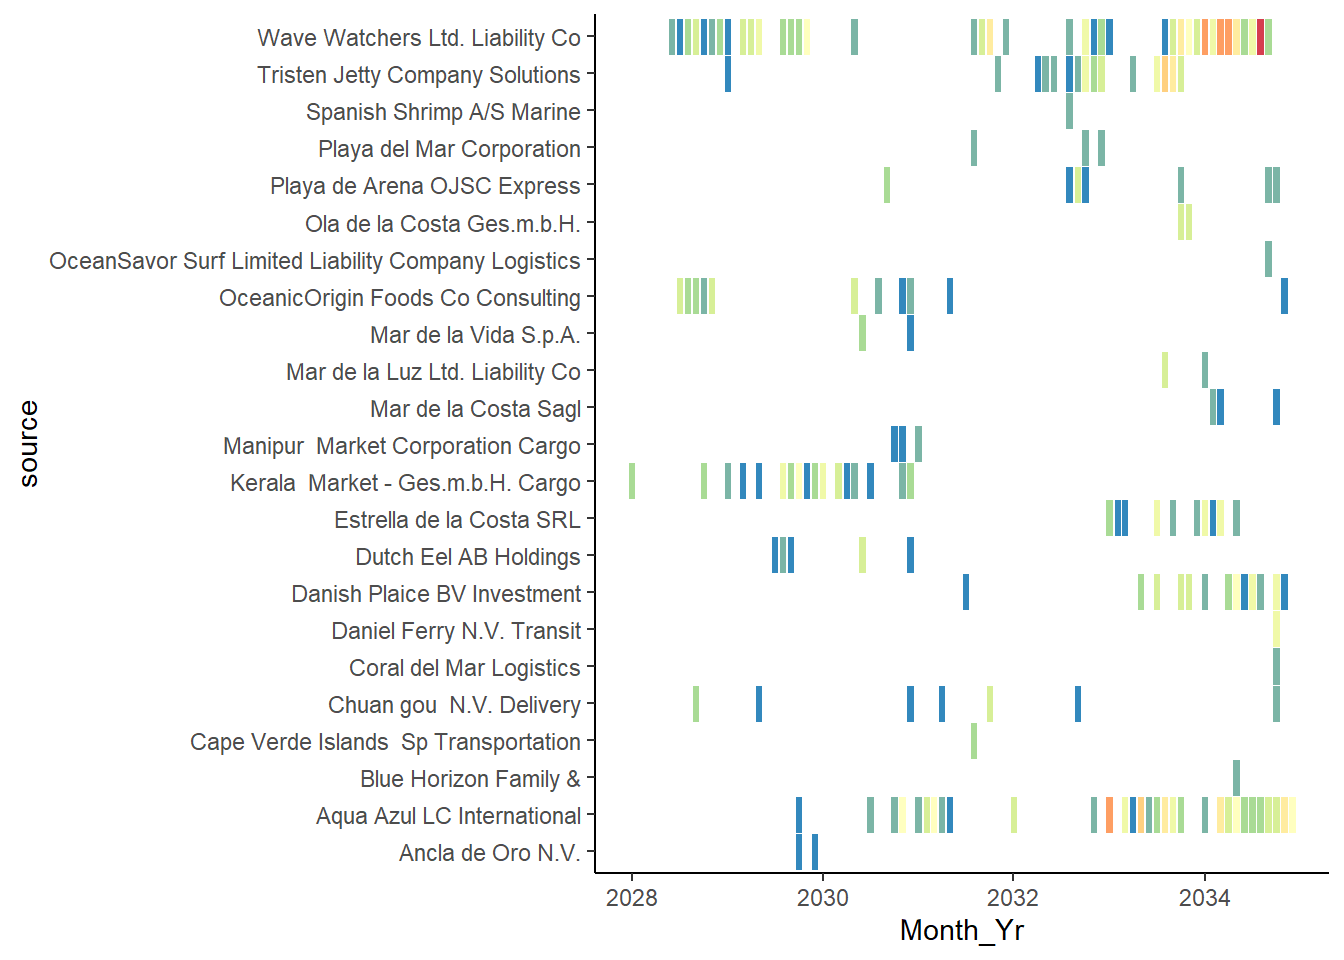
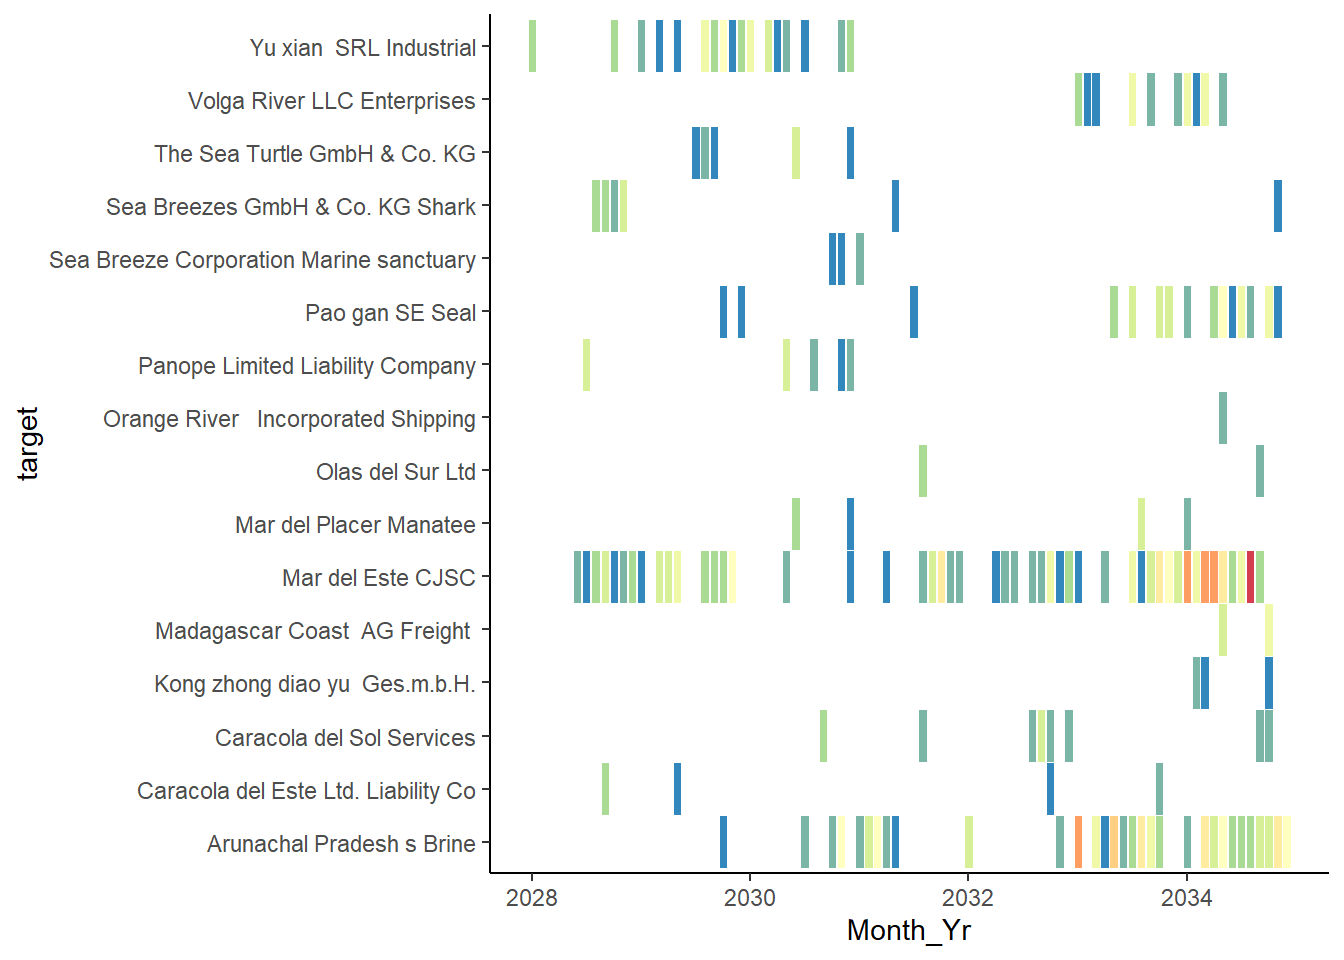
final commit 4 June

diff --git a/_site/Take-home_Ex/Take-home_Ex02/Take-home_Ex02.html b/_site/Take-home_Ex/Take-home_Ex02/Take-home_Ex02.html
@@ -261,7 +261,12 @@ code span.wa { color: #60a0b0; font-weight: bold; font-style: italic; } /* Warni
   <li><a href="#load-packages" id="toc-load-packages" class="nav-link" data-scroll-target="#load-packages">Load Packages</a></li>
   <li><a href="#data-importing-and-wraggling" id="toc-data-importing-and-wraggling" class="nav-link" data-scroll-target="#data-importing-and-wraggling">Data Importing and wraggling</a></li>
   </ul></li>
-  <li><a href="#data-visualization" id="toc-data-visualization" class="nav-link" data-scroll-target="#data-visualization">Data Visualization</a></li>
+  <li><a href="#data-visualization" id="toc-data-visualization" class="nav-link" data-scroll-target="#data-visualization">Data Visualization</a>
+  <ul class="collapse">
+  <li><a href="#plot-network-graph" id="toc-plot-network-graph" class="nav-link" data-scroll-target="#plot-network-graph">Plot Network Graph</a></li>
+  <li><a href="#plot-temporal-graph" id="toc-plot-temporal-graph" class="nav-link" data-scroll-target="#plot-temporal-graph">Plot Temporal Graph</a></li>
+  <li><a href="#insights" id="toc-insights" class="nav-link" data-scroll-target="#insights">Insights</a></li>
+  </ul></li>
   <li><a href="#interactive-network-graph" id="toc-interactive-network-graph" class="nav-link" data-scroll-target="#interactive-network-graph">Interactive Network Graph</a></li>
   </ul>
 </nav>
@@ -309,7 +314,8 @@ code span.wa { color: #60a0b0; font-weight: bold; font-style: italic; } /* Warni
 <h1>Task</h1>
 <p>Using the data provide by the VAST challenge, we are looking into the <a href="https://vast-challenge.github.io/2023/MC2.html">Mini-Challenge 2</a> (MC2) to identify compaines possibly engaged in illegal, unreported, and unregulated (IUU) fishing.</p>
 <p>When looking into IUU, we need to understand transshipment plays crucial roles in facilitating IUU fishing. Fishing ships will transfer its catch to other ships which would launder the catch to other countries - presumably their won. According to <a href="https://www.oceansinc.earth/transshipment#:~:text=Transshipment%20can%20facilitate%20IUU%20fishing,fish%20to%20be%20%E2%80%9Claundered%E2%80%9D.">OCEANS</a>, as many as 20% of global fishing catch is from IUU sources.</p>
-<p>Below, we will use Social Network Analysis (SNA) to understand to observe if we could uncover suspicious IUU activities.</p>
+<p>In the MC2 also mentioned that, when comapnies caught fishing illegally will shut down but will then often start up again under a different name, below we will visualize temporal patterns to identify if there are companies like this.</p>
+<p>Below, we will use Social Network Analysis (SNA) and other relevant tools to understand to observe if we could uncover suspicious IUU activities.</p>
 </section>
 <section id="data-preparation" class="level1">
 <h1>Data Preparation</h1>
@@ -323,7 +329,6 @@ code span.wa { color: #60a0b0; font-weight: bold; font-style: italic; } /* Warni
 <li><p><code>jsonlite</code>: Used for loading json data file.</p></li>
 <li><p><code>tidygraph</code>: Used for visualising network graph.</p></li>
 <li><p><code>visNetwork</code>: Used for visualising interactive network graph.</p></li>
-<li><p><code>pacthwork</code>: Used to combine plots.</p></li>
 <li><p><code>ggrepel</code>: ggrepel provides geoms for&nbsp;<code>ggplot2</code>&nbsp;to repel overlapping text labels.</p></li>
 <li><p><code>ggraph</code>: extension of <code>ggplot2</code></p></li>
 <li><p><code>igraph</code>: Network Analysis and Visualization.</p></li>
@@ -331,7 +336,7 @@ code span.wa { color: #60a0b0; font-weight: bold; font-style: italic; } /* Warni
 <div class="cell">
 <details>
 <summary>Show the code</summary>
-<div class="sourceCode cell-code" id="cb1"><pre class="sourceCode r code-with-copy"><code class="sourceCode r"><span id="cb1-1"><a href="#cb1-1" aria-hidden="true" tabindex="-1"></a>pacman<span class="sc">::</span><span class="fu">p_load</span>(jsonlite, tidygraph, ggraph, visNetwork, tidyverse, lubridate, ggplot2, ggthemes, igraph, patchwork, ggrepel)</span></code><button title="Copy to Clipboard" class="code-copy-button"><i class="bi"></i></button></pre></div>
+<div class="sourceCode cell-code" id="cb1"><pre class="sourceCode r code-with-copy"><code class="sourceCode r"><span id="cb1-1"><a href="#cb1-1" aria-hidden="true" tabindex="-1"></a>pacman<span class="sc">::</span><span class="fu">p_load</span>(jsonlite, tidygraph, ggraph, visNetwork, tidyverse, lubridate, ggplot2, ggthemes, igraph, ggrepel)</span></code><button title="Copy to Clipboard" class="code-copy-button"><i class="bi"></i></button></pre></div>
 </details>
 </div>
 </section>
@@ -497,7 +502,10 @@ $ weights  &lt;int&gt; 11, 11, 14, 12, 12, 15, 12, 15, 11, 13, 11, 14, 11, 11, 1
 <span id="cb16-3"><a href="#cb16-3" aria-hidden="true" tabindex="-1"></a>                       <span class="at">directed =</span> <span class="cn">TRUE</span>)</span></code><button title="Copy to Clipboard" class="code-copy-button"><i class="bi"></i></button></pre></div>
 </details>
 </div>
-<p>Many</p>
+<p>For the graphs below, the nodes are the fishing companies and the edges (links) are amount of times they are interacting with other nodes.</p>
+<p>As mentioned in the introduction, transshipment could be a way for ships to launder the IUU fishes, we plot the below graph, by filtering the nodes that has high in-degree. Nodes with high in-degree here means, it received a lot of shirmps/catfish/tuna from other ships.</p>
+<section id="plot-network-graph" class="level2">
+<h2 class="anchored" data-anchor-id="plot-network-graph">Plot Network Graph</h2>
 <div class="cell">
 <details>
 <summary>Show the code</summary>
@@ -518,6 +526,7 @@ $ weights  &lt;int&gt; 11, 11, 14, 12, 12, 15, 12, 15, 11, 13, 11, 14, 11, 11, 1
 <p><img src="Take-home_Ex02_files/figure-html/unnamed-chunk-9-1.png" class="img-fluid" width="672"></p>
 </div>
 </div>
+<p>We are also interested to know the high out-degree nodes, and later in the interactive nodes, we can example if any of these high out-degree nodes actually supplies to the above high in-dgree nodes.</p>
 <div class="cell">
 <details>
 <summary>Show the code</summary>
@@ -538,6 +547,10 @@ $ weights  &lt;int&gt; 11, 11, 14, 12, 12, 15, 12, 15, 11, 13, 11, 14, 11, 11, 1
 <p><img src="Take-home_Ex02_files/figure-html/unnamed-chunk-10-1.png" class="img-fluid" width="672"></p>
 </div>
 </div>
+</section>
+<section id="plot-temporal-graph" class="level2">
+<h2 class="anchored" data-anchor-id="plot-temporal-graph">Plot Temporal Graph</h2>
+<p>Based on the network graphs above, we realized that weights become significant when its more than 15, hence, below we plot the calendar heatmap for companies have higher activities (weight &gt;= 15) to understand their trading patterns over time.</p>
 <div class="cell">
 <details>
 <summary>Show the code</summary>
@@ -547,7 +560,7 @@ $ weights  &lt;int&gt; 11, 11, 14, 12, 12, 15, 12, 15, 11, 13, 11, 14, 11, 11, 1
 <span id="cb19-4"><a href="#cb19-4" aria-hidden="true" tabindex="-1"></a>top_weights <span class="ot">&lt;-</span> MC2_edges_aggregated<span class="sc">%&gt;%</span></span>
 <span id="cb19-5"><a href="#cb19-5" aria-hidden="true" tabindex="-1"></a>  <span class="fu">filter</span>(weights <span class="sc">&gt;=</span> <span class="dv">15</span>)</span>
 <span id="cb19-6"><a href="#cb19-6" aria-hidden="true" tabindex="-1"></a></span>
-<span id="cb19-7"><a href="#cb19-7" aria-hidden="true" tabindex="-1"></a> <span class="fu">ggplot</span>(top_weights, <span class="fu">aes</span>(<span class="at">x=</span>Month_Yr, <span class="at">y=</span>source, <span class="at">fill=</span>weights))<span class="sc">+</span></span>
+<span id="cb19-7"><a href="#cb19-7" aria-hidden="true" tabindex="-1"></a> <span class="fu">ggplot</span>(top_weights, <span class="fu">aes</span>(<span class="at">x=</span>Month_Yr, <span class="at">y=</span>target, <span class="at">fill=</span>weights))<span class="sc">+</span></span>
 <span id="cb19-8"><a href="#cb19-8" aria-hidden="true" tabindex="-1"></a>  <span class="fu">geom_tile</span>(<span class="at">colour=</span><span class="st">"White"</span>, <span class="at">show.legend=</span><span class="cn">FALSE</span>)<span class="sc">+</span></span>
 <span id="cb19-9"><a href="#cb19-9" aria-hidden="true" tabindex="-1"></a>  <span class="fu">theme_classic</span>()<span class="sc">+</span></span>
 <span id="cb19-10"><a href="#cb19-10" aria-hidden="true" tabindex="-1"></a>  <span class="fu">scale_fill_distiller</span>(<span class="at">palette=</span><span class="st">"Spectral"</span>)</span></code><button title="Copy to Clipboard" class="code-copy-button"><i class="bi"></i></button></pre></div>
@@ -559,7 +572,7 @@ $ weights  &lt;int&gt; 11, 11, 14, 12, 12, 15, 12, 15, 11, 13, 11, 14, 11, 11, 1
 <div class="cell">
 <details>
 <summary>Show the code</summary>
-<div class="sourceCode cell-code" id="cb20"><pre class="sourceCode r code-with-copy"><code class="sourceCode r"><span id="cb20-1"><a href="#cb20-1" aria-hidden="true" tabindex="-1"></a> <span class="fu">ggplot</span>(top_weights, <span class="fu">aes</span>(<span class="at">x=</span>Month_Yr, <span class="at">y=</span>target, <span class="at">fill=</span>weights))<span class="sc">+</span></span>
+<div class="sourceCode cell-code" id="cb20"><pre class="sourceCode r code-with-copy"><code class="sourceCode r"><span id="cb20-1"><a href="#cb20-1" aria-hidden="true" tabindex="-1"></a> <span class="fu">ggplot</span>(top_weights, <span class="fu">aes</span>(<span class="at">x=</span>Month_Yr, <span class="at">y=</span>source, <span class="at">fill=</span>weights))<span class="sc">+</span></span>
 <span id="cb20-2"><a href="#cb20-2" aria-hidden="true" tabindex="-1"></a>  <span class="fu">geom_tile</span>(<span class="at">colour=</span><span class="st">"White"</span>, <span class="at">show.legend=</span><span class="cn">FALSE</span>)<span class="sc">+</span></span>
 <span id="cb20-3"><a href="#cb20-3" aria-hidden="true" tabindex="-1"></a>  <span class="fu">theme_classic</span>()<span class="sc">+</span></span>
 <span id="cb20-4"><a href="#cb20-4" aria-hidden="true" tabindex="-1"></a>  <span class="fu">scale_fill_distiller</span>(<span class="at">palette=</span><span class="st">"Spectral"</span>)</span></code><button title="Copy to Clipboard" class="code-copy-button"><i class="bi"></i></button></pre></div>
@@ -568,10 +581,46 @@ $ weights  &lt;int&gt; 11, 11, 14, 12, 12, 15, 12, 15, 11, 13, 11, 14, 11, 11, 1
 <p><img src="Take-home_Ex02_files/figure-html/unnamed-chunk-12-1.png" class="img-fluid" width="672"></p>
 </div>
 </div>
-<p>Finding the cluster, check if can label the cluster for each node.</p>
+</section>
+<section id="insights" class="level2">
+<h2 class="anchored" data-anchor-id="insights">Insights</h2>
+<p>Based on the network graphs and the heatmaps rom the above two network graph, some companies have high in/out degree but their activties are consistent across the time, hence we would think that those are the legal companies, and I have identified some prominent company pairs in the table below that caught my attention with their abrupt activities in the heatmap.</p>
+<table class="table">
+<colgroup>
+<col style="width: 53%">
+<col style="width: 46%">
+</colgroup>
+<thead>
+<tr class="header">
+<th>High in-degree companies</th>
+<th>High out-degree companies</th>
+</tr>
+</thead>
+<tbody>
+<tr class="odd">
+<td>Yu xian SRL Industrial</td>
+<td>Kerala Market - Ges.m.b.H. Cargo</td>
+</tr>
+<tr class="even">
+<td>Volga River LLC Enterprises</td>
+<td>Estrella de la Costa SRL</td>
+</tr>
+<tr class="odd">
+<td>Sea Breeze Corporation Marine sanctuary</td>
+<td>Manipur Market Corporation Cargo</td>
+</tr>
+<tr class="even">
+<td>Sea Turtle GmbH &amp; Co.&nbsp;KG</td>
+<td>Dutch Eel AB Holdings</td>
+</tr>
+</tbody>
+</table>
+<p>These companies form the demand-supply pairs, as seemed in the network graphs, and from the calendar heatmap, we can see their activtities match - both will be active in the same period and then disappear after “getting caught”. These could be suspicious companies that we should look into more details in the personels involved to see if there are any leads.</p>
+</section>
 </section>
 <section id="interactive-network-graph" class="level1">
 <h1>Interactive Network Graph</h1>
+<p>Below visNetwork() is used for the interactive network graph, so from the above identified companies, we are able to select those companies by the id dropdown to observe the network around them.</p>
 <div class="cell">
 <details>
 <summary>Show the code</summary>
